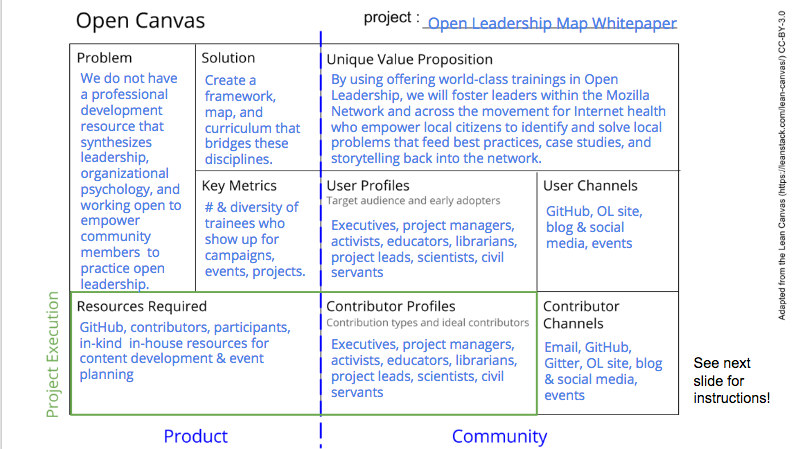
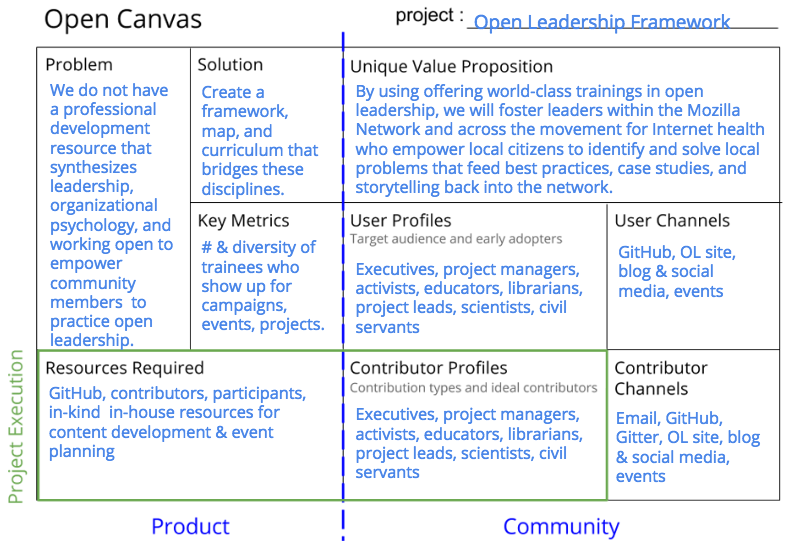
Continued OLM --> OLF edits

Changed region(s): [[0.0, 0.0, 1.0, 1.0]]

diff --git a/decision-log.md b/decision-log.md
@@ -1,4 +1,4 @@
-# Open Leadership Map decision log
+# Open Leadership Framework decision log
 ### *Capturing conversations about the OLM*
 
 ## White paper decisions
@@ -17,21 +17,21 @@ Since MIT and Mozilla partner to deliver the camp’s curriculum, we wanted to a
 
 ***Why are participation and inclusion grouped together?***
 
-We believe that any efforts a community. leader, or project makes towards inclusion must include authentic, significant, and valuable opportunities for participation, contribution and leadership. To make that belief an explicit part of the map and its design, we paired Participation & inclusion at Mark Surman’s suggestion.
+We believe that any efforts a community. leader, or project makes towards inclusion must include authentic, significant, and valuable opportunities for participation, contribution and leadership. To make that belief an explicit part of the map and its design, we paired **participation & inclusion** at Mark Surman’s suggestion.
 
-***Why does the map use*** Design***,*** Build***, and*** Empower ***as its practices?***
+***Why does the map use **Design**, **build**, and **empower** as its practices?***
 
-A very early draft of the white paper focused on the skills on the current Build section of the map. Much of our past work focuses on the workflows and tooling open projects need to be both open and successful. We had a good grasp on how to teach people to build projects, which, of course, included elements of Design and Empower, but more of documentation skewed towards the kinds of things one would practice as part of Build.
+A very early draft of the white paper focused on the skills on the current **build** section of the map. Much of our past work focuses on the workflows and tooling open projects need to be both open and successful. We had a good grasp on how to teach people to build projects, which, of course, included elements of **design** and **empower**, but more of documentation skewed towards the kinds of things one would practice as part of **build**.
 
-We wanted to surface and unpack Design as a practice that helps open leaders and their communities make decisions and establish the systems they need to build any project. We wanted to surface and unpack Empower as a practice that helps open leaders maintain their core vision and values while opening pathways of personal and professional growth and  leadership for their contributors.
+We wanted to surface and unpack **design** as a practice that helps open leaders and their communities make decisions and establish the systems they need to build any project. We wanted to surface and unpack **empower** as a practice that helps open leaders maintain their core vision and values while opening pathways of personal and professional growth and  leadership for their contributors.
 
-These three words best capture what we believe to be the core practices of Open Leadership through we have discussed other “containers” (e.g. Make, Share, Do) and used parts of past conversations to inform the white paper and its definitions of Design, Build, and Empower.
+These three words best capture what we believe to be the core practices of Open Leadership through we have discussed other “containers” (e.g. Make, Share, Do) and used parts of past conversations to inform the white paper and its definitions of **design**, **build**, and **empower**.
 
 ***Why aren’t there any levels of open leadership or others markers of personal or professional progression or development?***
 
 We believe that open leadership is a journey or spectrum of personal and professional development. Given that idea of open leadership, we decided it was not important or always beneficial to group or sort people by “leadership level” or another construct. Instead, we want the white paper and map to provide people with a tool they can use to self-identify areas of strength and and areas of learning they’d like to pursue through direct experience (including Mozilla programming developed to complement the map) regardless of where they choose to begin on the map. We will “level” our programming so that people who use Mozilla’s Open Leadership resources find helpful and relevant support, and we will look at how people move through our programming (or not) to improve it, but we won’t insist on tracking people or limiting their Open Leadership practices through any kind leveling. The principles, practices, and skills of Open Leadership make it something we can all practice in any part of a community or project.
 
-***How did you determine the benefits of Open Leadership?***
+***How did you determine the benefits of open leadership?***
 
 We drew from research done by Mozilla Corporation’s [Open Innovation Strategy Team](https://medium.com/mozilla-open-innovation) and research done in our Hive learning communities by Rafi Santo and [Hive Research Lab](https://hiveresearchlab.org/). The benefits we cite also correlate to the benefits of open listed in [“The Open Organization Definition“](https://github.com/open-organization-ambassadors/open-org-definition/blob/master/open_org_definition.md) from  [Opensource.com](https://opensource.com/).
 
@@ -42,19 +42,19 @@ Pre-beta
 
 ### Alpha
  
-***How did you develop the Open Leadership Map Theory of Change (OLM ToC)?***
+***How did you develop the Open Leadership Framework Theory of Change (OLM ToC)?***
 
 We drafted the OLM ToC in response to our first alpha community call and modeled it after other ToC documents used internally to describe the scope and ambitions of projects like our fellows programs.
 
 The ToC also echoes the ambitious initial vision for this project, which saw open leadership as a lever for global change for good.
 
-***Why did you change “Extensibility” to “Sharing” in the beta?***
+***Why did you change “extensibility” to “sharing” in the beta?***
 
 We had a discussion about accessibility in [this issue](https://github.com/mozilla/olm-whitepaper/issues/13) on GitHub. We decided to test “Sharing” in the beta in an attempt to make the map, ites concepts, and its terms more inviting to people who are interested in open and/or leadership, but who may come from a non-technical background.
  
 ### Beta
 
-***Why are you changing the name of this project to the Open Leadership Map Framework?***
+***Why are you changing the name of this project to the Open Leadership Framework?***
 
 To put it simply: we’re not ready to make a map yet, so we need to stop calling this a map.
 

diff --git a/CONTRIBUTING.md b/CONTRIBUTING.md
@@ -1,10 +1,6 @@
-<<<<<<< HEAD
-#Open Leadership Map white paper Contribution Guidlines
-=======
-# Open Leadership Map Whitepaper Contribution Guidlines
->>>>>>> origin/master
+# Open Leadership Framework Contribution Guidlines
 
-You don't need any special technical skills to contribute to this project. We will work with you to find a way to gather your feedback on this public alpha of the Open Leadership Map white paper. There are many ways to contrbiute regardless of your experience level with GitHub or working open.
+You don't need any special technical skills to contribute to this project. We will work with you to find a way to gather your feedback on this public alpha of the Open Leadership Framework. There are many ways to contrbiute regardless of your experience level with GitHub or working open.
 
 ## Getting Started with Open
 
@@ -24,7 +20,7 @@ You can contribute to this white paper in any way that makes sense to you.
 
 GitHub can be challenging for new users. If you experience difficulty with it, you are not alone. We want to help you overcome those challenges or find a way to contribute that works for you.
 
-For this project, we can use a feature called the "Issue Tracker" in GitHub to communicate with one another. It's kind of like a shared message board combined with a to-do list. To address an issue to a specific person, you add their name to the issue the same way you would to a tweet, like this for example: @chadsansing would address your message to Chad, the contact person for this project.
+For this project, we can use a feature called the "Issue Tracker" in GitHub to communicate with one another. It's kind of like a shared message board combined with a to-do list. To address an issue to a specific person, you add their name to the issue the same way you would to a tweet, like this for example: @chadsansing would address your message to Chad, the project lead.
 
 If the Issue Tracker is too difficult to use, contact Chad. He will work with you and help you find a way to contribute no matter what.
 

diff --git a/canvas.md b/canvas.md
@@ -1,5 +1,5 @@
 # Open Leadership Map Whitepaper Canvas
 
-[Visit the canvas online](https://docs.google.com/presentation/d/1nvO0bnZ8iarcFOW8BrN6RzZg17xrkh1StTp_G1PmZx0/edit#slide=id.g2c8f573b69_0_11) and save a copy (or copy the slide) to your Google drive it to make your own!
+[Visit the canvas online](`https://docs.google.com/presentation/d/1nvO0bnZ8iarcFOW8BrN6RzZg17xrkh1StTp_G1PmZx0/edit#slide=id.g2c8f573b69_0_11`) and save a copy (or copy the slide) to your Google drive it to make your own!
 
 ![An open canvas graphic organizer sharing the details of this project](images/olf-canvas.png)

diff --git a/CODE_OF_CONDUCT.md b/CODE_OF_CONDUCT.md
@@ -1,4 +1,4 @@
-# Open Leadership Map Whitepaper Participation Guidelines
+# Open Leadership Framework Participation Guidelines
 
 ## Code of Conduct
 
